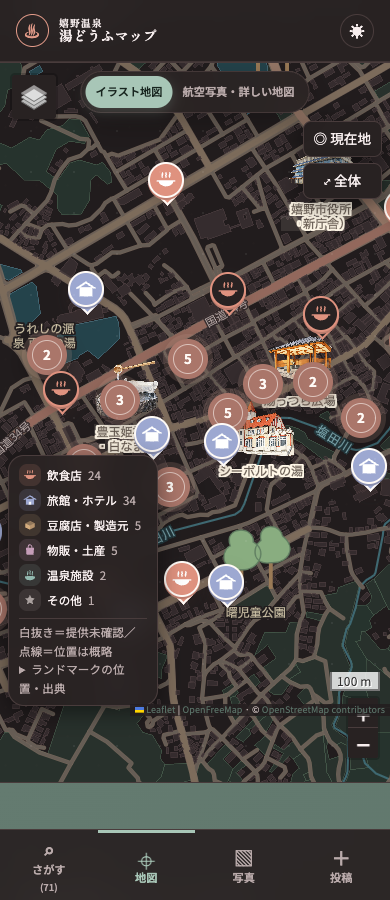
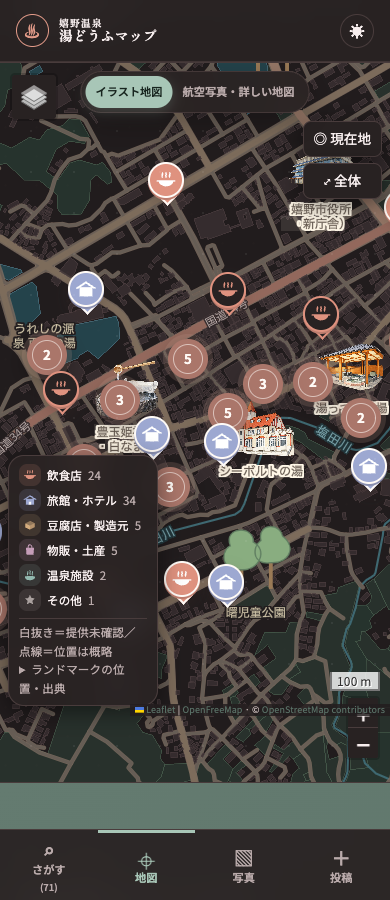
湯っつら広場を現地確認座標へ修正

Changed region(s): [[0.6769, 0.3733, 1.0, 0.4667]]

diff --git a/docs/mockups/landmark-art.md b/docs/mockups/landmark-art.md
@@ -7,7 +7,7 @@
 - 嬉野市役所（新庁舎）: [公式庁舎案内と地図](https://www.city.ureshino.lg.jp/shisei/soshiki/_24965.html)、[公式外観パース掲載ページ](https://www.city.ureshino.lg.jp/shisei/_25349/_26636.html)。4階建て、水平の庇、ガラス窓、最上部の縦ルーバー。公式地図の緯度33.101276・経度129.986866を採用。
 - うれしのお茶ちゃ村: [嬉野温泉観光協会](https://spa-u.net/facility/2016/01/org-entry-209.php) と依頼時の外観写真。長い瓦屋根、木部、藍色の暖簾を反映。緯度33.079488・経度129.968292。
 - 元祖忍者村 肥前夢街道: [施設公式アクセス](https://www.hizenyumekaidou.info/access/) と依頼時の写真。建物ではなく、施設を判別しやすい忍者の記号。緯度33.095641・経度129.9912809。
-- 湯っつら広場: [佐賀県公共空間データベース](https://publicspace-db.pref.saga.lg.jp/publicspace/k0002/) と依頼時の現地写真。木柱と低い屋根の足湯東屋を反映。緯度33.09783212095889・経度129.9864069699743。
+- 湯っつら広場: [佐賀県公共空間データベース](https://publicspace-db.pref.saga.lg.jp/publicspace/k0002/) と依頼時の現地写真。木柱と低い屋根の足湯東屋を反映。現地確認情報の緯度33.097702335348245・経度129.9875228672859。
 - 嬉野温泉駅: [JR九州](https://www.jrkyushu.co.jp/railway/station/1227475_1601.html) と依頼時の外観写真。長い駅舎、縦ルーバー、反り上がる入口庇を反映。緯度33.1066113・経度129.9989727。
 
 参考写真はリポジトリに転載していない。内蔵 imagegen で参考写真から透過PNGの地図用イラストを作成し、`assets/landmarks/` に保存した。実写や測量図ではない。イラストの中心を実際の座標に固定し、引き出し線や位置をずらす処理は使用しない。
